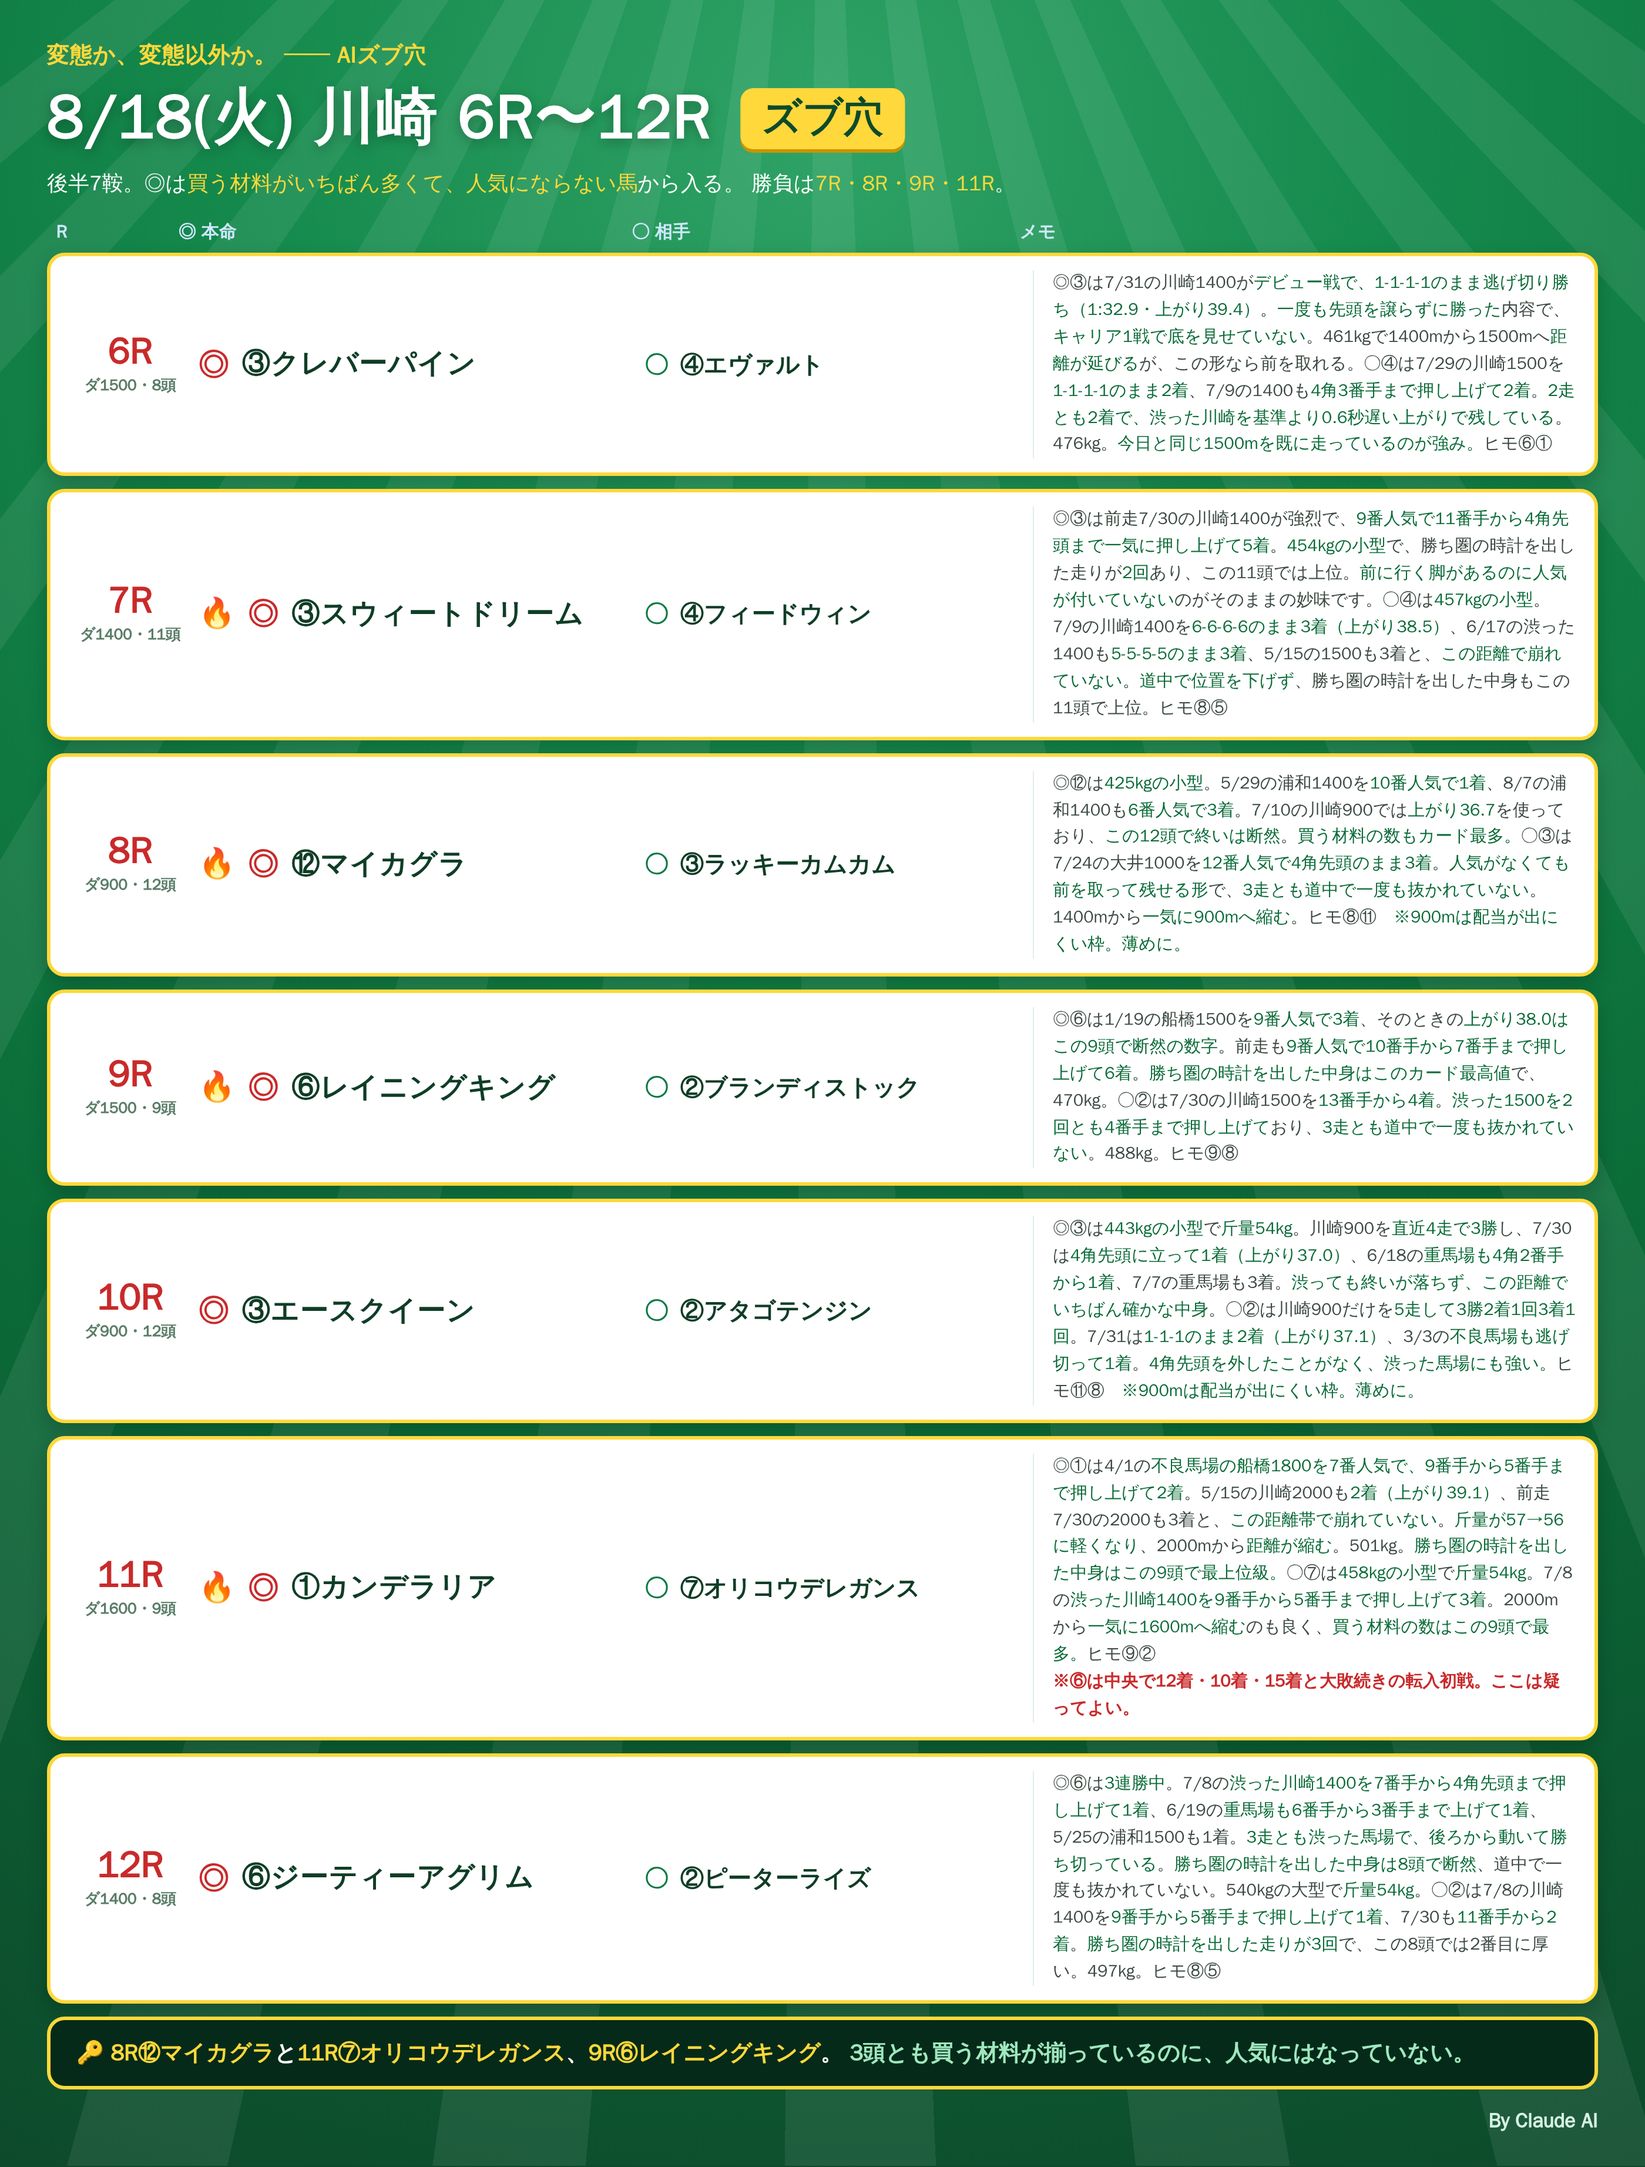
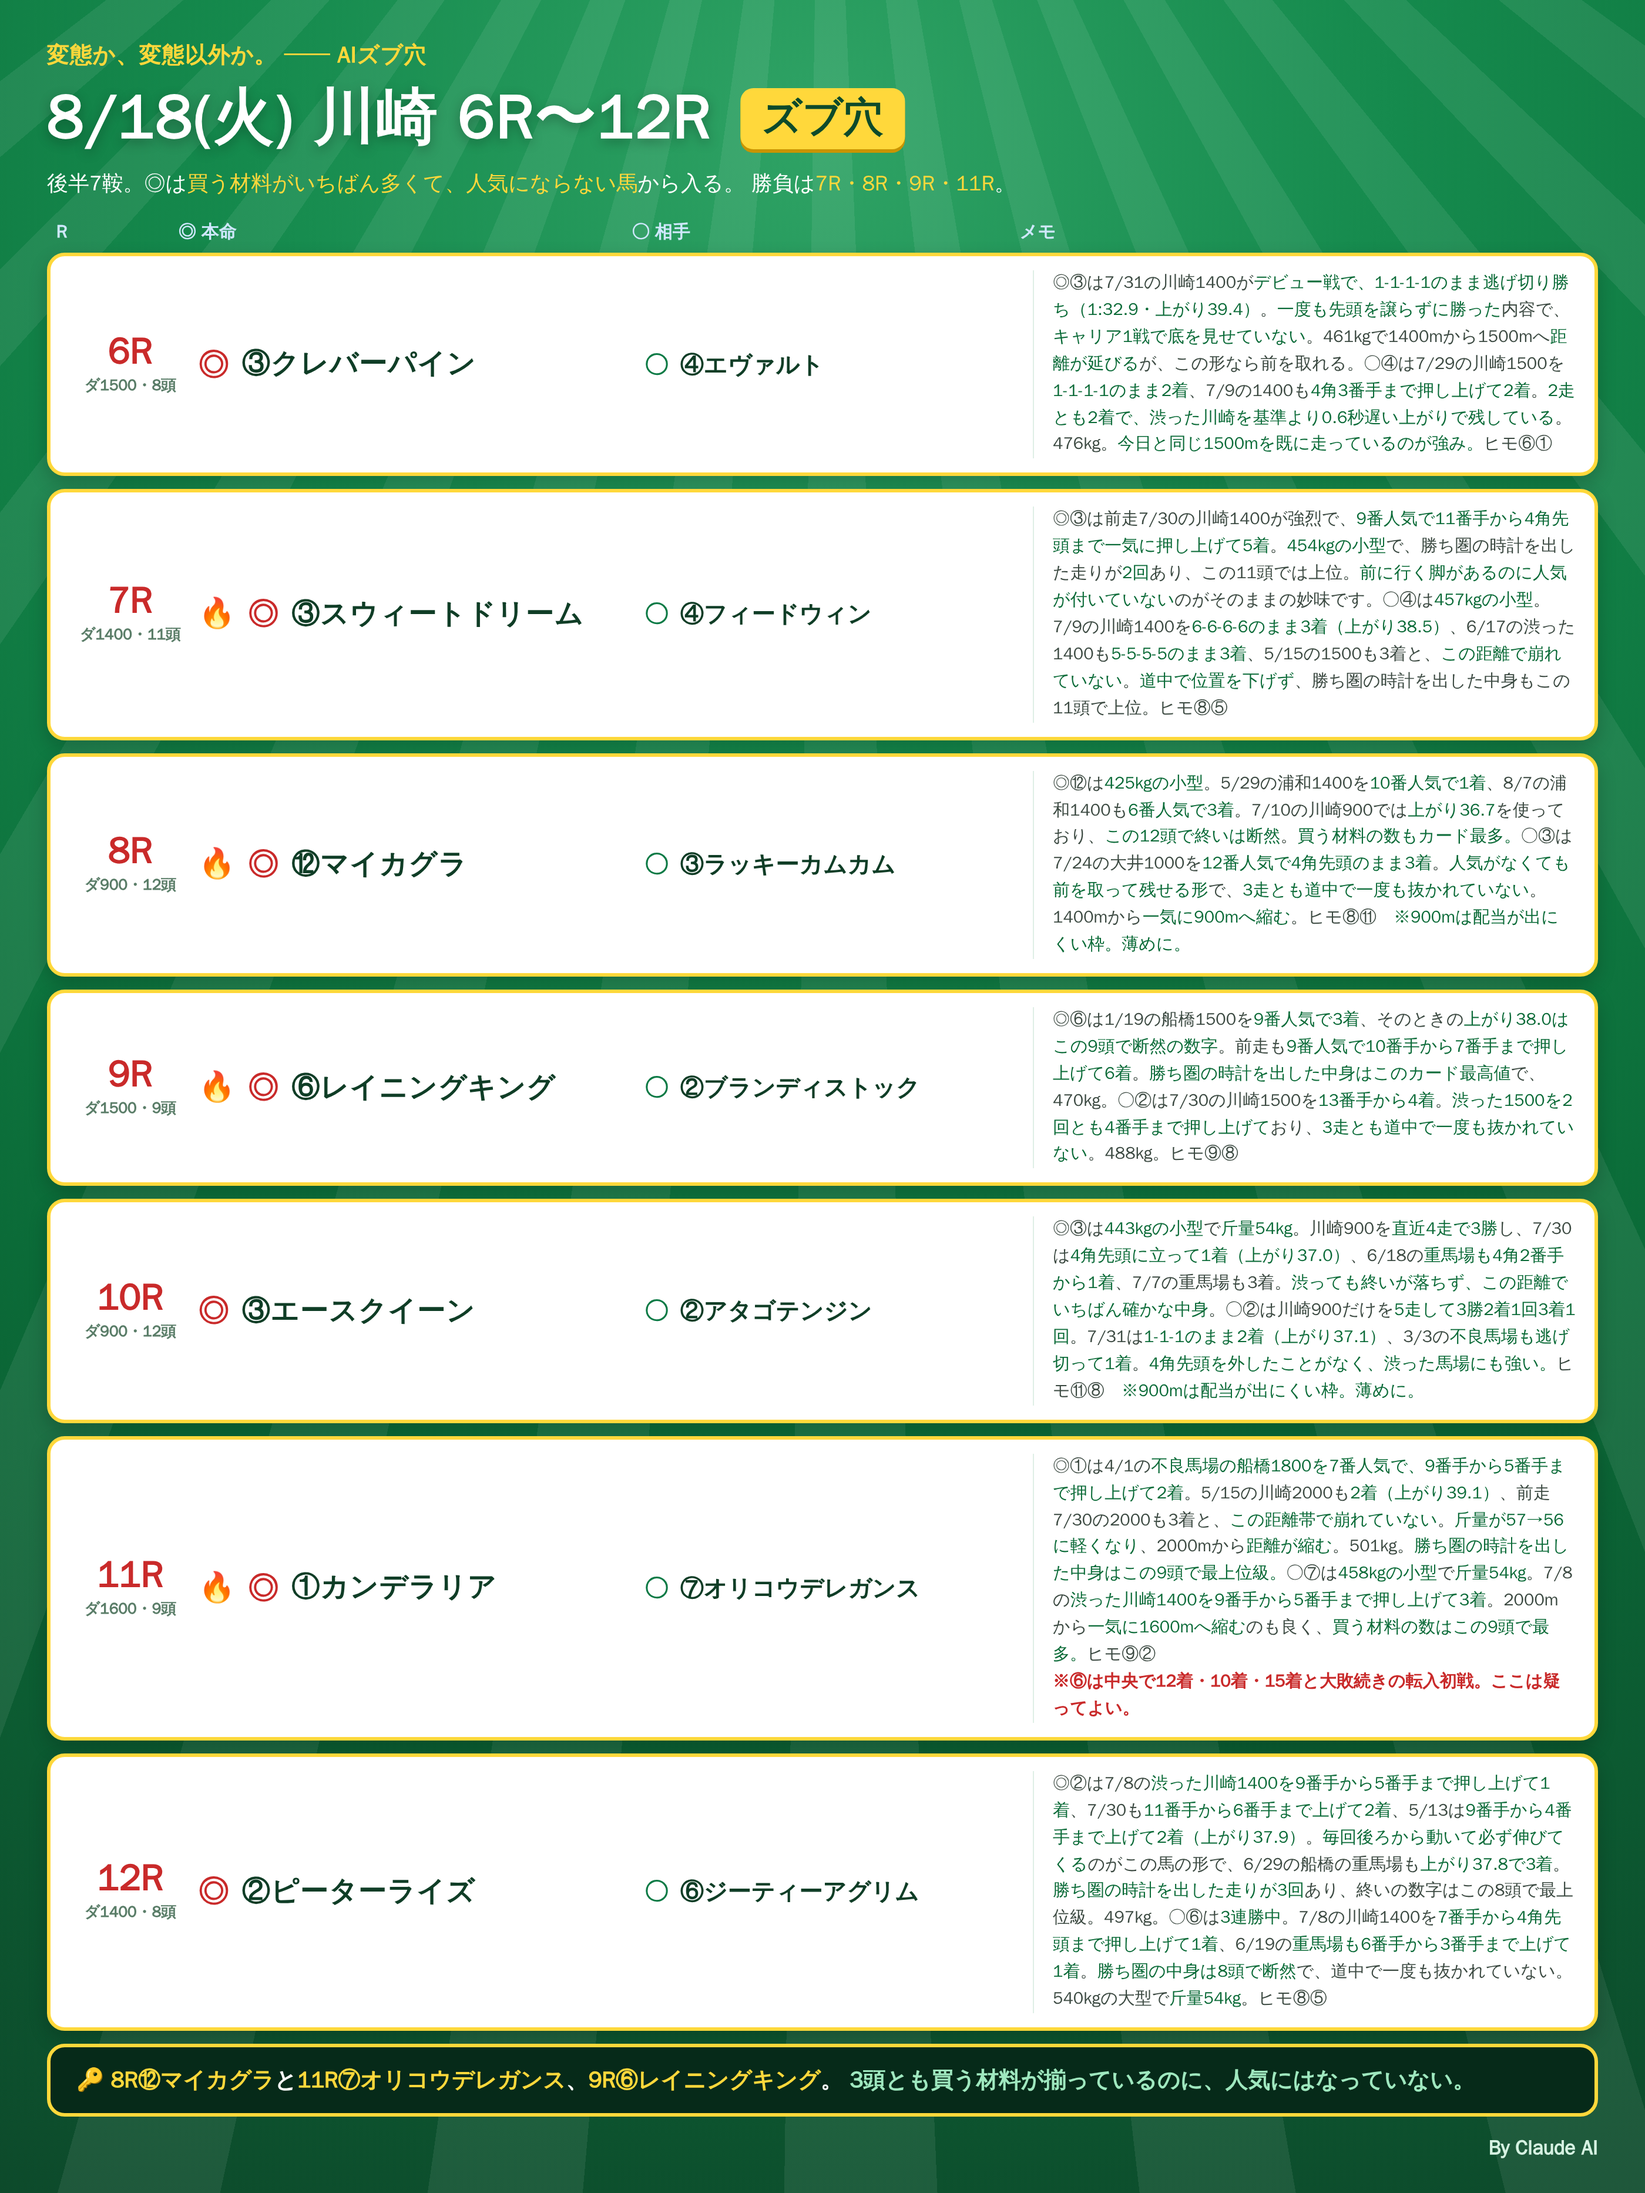
notes: 8/18 川崎 12R ◎○入れ替え（◎②ピーターライズ ○⑥ジーティーアグリム）
Claude-Session: https://claude.ai/code/session_01RoHscZkr96FNaxQWvUqgEw

diff --git a/notes/live/2026-08-18/kawasaki_triple_umatan.html b/notes/live/2026-08-18/kawasaki_triple_umatan.html
@@ -77,25 +77,25 @@
   </div>
 
   <div class="race r12">
-    <div class="rh"><span class="rn">12R</span><span class="rd">ダ1400 ・ 8頭　凌霄花特別 Ｂ３一二三</span><span class="rbadge">◎軸⑥ジーティーアグリム（3連勝中・下地10.4本物4で断然）</span></div>
+    <div class="rh"><span class="rn">12R</span><span class="rd">ダ1400 ・ 8頭　凌霄花特別 Ｂ３一二三</span><span class="rbadge">◎軸②ピーターライズ（下地9.6本物3・毎回後ろから伸びる）</span></div>
     <div class="line"><div class="tag"><span class="t1">1着 本命</span></div><div class="chips">
-      <div class="chip honmei"><span class="no">6</span><span class="nm">ジーティーアグリム</span><span class="meta"><b>3連勝中</b>・下地10.4本物4で8頭断然・540kg・斤54kg／7/8の渋った1400を7番手から4角先頭で1着・6/19の重も6番手から1着・道中で一度も抜かれず</span></div></div></div>
+      <div class="chip honmei"><span class="no">2</span><span class="nm">ピーターライズ</span><span class="meta">エッジ5・下地9.6本物3・497kg／7/8の渋った1400を9番手から5番手まで押し上げて1着・7/30も11番手から2着・5/13は9番手から2着(上がり37.9)</span></div></div></div>
     <div class="line"><div class="tag"><span class="t2">1着 保険</span></div><div class="chips">
-      <div class="chip hoken"><span class="no">2</span><span class="nm">ピーターライズ</span><span class="meta">エッジ5・下地9.6本物3＝8頭で2番目／7/8を9番手から1着・7/30も11番手から2着・497kg＝堅い側の保険</span></div></div></div>
+      <div class="chip hoken"><span class="no">6</span><span class="nm">ジーティーアグリム</span><span class="meta"><b>3連勝中</b>・下地10.4本物4で8頭断然・540kg・斤54kg・道中で一度も抜かれず＝堅い側の保険</span></div></div></div>
     <div class="line"><div class="tag"><span class="t3">2着 →</span></div><div class="chips">
       <div class="chip aite ana"><span class="no">5</span><span class="nm">リコーベレッタ</span><span class="meta">465kg・買う材料は8頭で最多タイ／7/30・7/9とも3-3-4-3で運び、4/9は4角2番手まで押し上げ。<b>3走とも6〜7番人気</b></span></div>
       <div class="chip aite ana"><span class="no">8</span><span class="nm">サラサチャレンジ</span><span class="meta">斤53kgで8頭最軽量／7/30を2-2-1-2で4角先頭・昨秋の佐賀1400は逃げて4着（上がり38.9）</span></div>
       <div class="chip aite ana"><span class="no">7</span><span class="nm">ナリノエンブレム</span><span class="meta">3走とも4角先頭で一度も抜かれず・上がりのブレ1.20が小さい</span></div>
       <div class="chip aite"><span class="no">3</span><span class="nm">トウマ</span><span class="meta">464kg・下地4.9・3走とも掲示板圏内</span></div></div></div>
-    <div class="rc">⑥は<b>3走とも渋った馬場を後ろから動いて勝ち切っている3連勝馬</b>で、下地も8頭で断然。<span class="o">保険は下地2番手の②</span>。2着筆頭は<b>毎回6〜7番人気なのに毎回前で運べている⑤</b>で、ここが配当源。</div>
+    <div class="rc">②は<b>毎回後ろから動いて必ず伸びてくる</b>形で、下地9.6本物3。<span class="o">保険は3連勝中で下地断然の⑥</span>。2着筆頭は<b>毎回6〜7番人気なのに毎回前で運べている⑤</b>で、ここが配当源。</div>
   </div>
 
   <div class="buys">
     <div class="buy hon"><div class="bt">▶ 本線（1着2頭 × 2着3頭）</div>
-      <div class="bl">10R <span class="a">③②</span>→<span class="s">⑪⑧⑥</span> ／ 11R <span class="a">①③</span>→<span class="s">⑦⑨⑧</span> ／ 12R <span class="a">⑥②</span>→<span class="s">⑤⑦⑧</span></div>
+      <div class="bl">10R <span class="a">③②</span>→<span class="s">⑪⑧⑥</span> ／ 11R <span class="a">①③</span>→<span class="s">⑦⑨⑧</span> ／ 12R <span class="a">②⑥</span>→<span class="s">⑤⑦⑧</span></div>
       <div class="bn">6×6×6＝<b>216点・10,800円</b>。1着を◎＋保険の2頭に割り、2着を3頭で受ける標準形（トリプル馬単は1点50円）。</div></div>
     <div class="buy hok"><div class="bt">▶ 絞り／総取り</div>
-      <div class="bl">絞り 1着を<span class="a">③・①・⑥</span>に固定 → 3×3×3＝<span class="a">27点・1,350円</span><br>総取り 8×8×8＝<span class="a">512点・25,600円</span>（2着を各4頭）</div>
+      <div class="bl">絞り 1着を<span class="a">③・①・②</span>に固定 → 3×3×3＝<span class="a">27点・1,350円</span><br>総取り 8×8×8＝<span class="a">512点・25,600円</span>（2着を各4頭）</div>
       <div class="bn">10Rは900mで<b>配当が出にくい枠</b>（前回開催は人気薄62頭で3着内4頭）。<b>10Rは1着を③②の堅い2頭で固め、2着に⑪⑧の人気薄を置いて配当を作る形</b>。11R・12Rは2着を4頭まで広げてよい。</div></div>
   </div>
 

diff --git a/notes/live/2026-08-18/kawasaki_6_12.html b/notes/live/2026-08-18/kawasaki_6_12.html
@@ -97,9 +97,9 @@
 
   <div class="row">
     <div class="rN"><div class="n">12R</div><div class="d">ダ1400・8頭</div></div>
-    <div class="hm"><span class="mk">◎</span><span class="nm">⑥ジーティーアグリム</span></div>
-    <div class="at"><span class="mk2">○</span><span class="nm2">②ピーターライズ</span></div>
-    <div class="memo">◎⑥は<b>3連勝中</b>。7/8の<b>渋った川崎1400を7番手から4角先頭まで押し上げて1着</b>、6/19の<b>重馬場も6番手から3番手まで上げて1着</b>、5/25の浦和1500も1着。<b>3走とも渋った馬場で、後ろから動いて勝ち切っている</b>。<b>勝ち圏の時計を出した中身は8頭で断然</b>、道中で一度も抜かれていない。540kgの大型で<b>斤量54kg</b>。○②は7/8の川崎1400を<b>9番手から5番手まで押し上げて1着</b>、7/30も<b>11番手から2着</b>。<b>勝ち圏の時計を出した走りが3回</b>で、この8頭では2番目に厚い。497kg。ヒモ⑧⑤</div>
+    <div class="hm"><span class="mk">◎</span><span class="nm">②ピーターライズ</span></div>
+    <div class="at"><span class="mk2">○</span><span class="nm2">⑥ジーティーアグリム</span></div>
+    <div class="memo">◎②は7/8の<b>渋った川崎1400を9番手から5番手まで押し上げて1着</b>、7/30も<b>11番手から6番手まで上げて2着</b>、5/13は<b>9番手から4番手まで上げて2着（上がり37.9）</b>。<b>毎回後ろから動いて必ず伸びてくる</b>のがこの馬の形で、6/29の船橋の重馬場も<b>上がり37.8で3着</b>。<b>勝ち圏の時計を出した走りが3回</b>あり、終いの数字はこの8頭で最上位級。497kg。○⑥は<b>3連勝中</b>。7/8の川崎1400を<b>7番手から4角先頭まで押し上げて1着</b>、6/19の<b>重馬場も6番手から3番手まで上げて1着</b>。<b>勝ち圏の中身は8頭で断然</b>で、道中で一度も抜かれていない。540kgの大型で<b>斤量54kg</b>。ヒモ⑧⑤</div>
   </div>
 
   <div class="foot">🔑 <span class="y">8R⑫マイカグラ</span>と<span class="y">11R⑦オリコウデレガンス</span>、<span class="y">9R⑥レイニングキング</span>。

diff --git a/notes/live/2026-08-18/README.md b/notes/live/2026-08-18/README.md
@@ -120,7 +120,7 @@
 | 12R ダ1400 | ⑤リコーベレッタ | ⑥ジーティーアグリム（3連勝中・399=10.4本物4で断然） | ②⑦⑧③ |
 
 - 本線 6×6×6＝**216点・10,800円**：10R ⑪③→⑧⑥⑤ ／ 11R ⑦③→①⑨⑧ ／ 12R ⑤⑥→②⑦⑧
-- 絞り：1着を **③・①・⑥** に固定 → 3×3×3＝**27点・1,350円**
+- 絞り：1着を **③・①・②** に固定 → 3×3×3＝**27点・1,350円**
 - ⚠ **10Rは⑪の中身が薄い。絞るなら1着を⑪⑧の2頭に組み替える。**
 
 ---
@@ -167,10 +167,10 @@
 |---|---|---|---|---|
 | 10R | **③エースクイーン** | ─ | ②アタゴテンジン（4角先頭を外したことがない） | ⑪⑧⑥⑤ |
 | 11R | **①カンデラリア** | ─ | ③スカイアクロス | ⑦⑨⑧④ |
-| 12R | **⑥ジーティーアグリム**（3連勝中） | ─ | ②ピーターライズ | ⑤⑦⑧③ |
+| 12R | **②ピーターライズ** | ─ | ⑥ジーティーアグリム（3連勝中） | ⑤⑦⑧③ |
 
 - 本線 6×6×6＝**216点・10,800円**：10R ⑪②→⑧⑥③ ／ 11R ⑦③→⑨①⑧ ／ 12R ⑤⑥→⑧②⑦
-- 絞り：1着を **③・①・⑥** に固定 → 3×3×3＝**27点・1,350円**
+- 絞り：1着を **③・①・②** に固定 → 3×3×3＝**27点・1,350円**
 - ⚠ 10Rは⑪(57.9倍)と⑧(53.8倍)がどちらも2桁人気。絞るなら1着を**⑪⑧**の2頭に組み替える。
 
 ## カラーテーマ
@@ -194,10 +194,10 @@
 | **9R ダ1500** | **⑥レイニングキング** | ②ブランディストック | ⑨⑧ |
 | 10R ダ900 | **③エースクイーン**（本人指定・443kgの小型・斤54kg・川崎900を直近4走で3勝・7/30は4角先頭で1着(上がり37.0)・6/18の重も1着） | **②アタゴテンジン**（本人指定・川崎900を5走して3勝・4角先頭を外したことがない・3/3の不良も逃げ切り） | ⑪⑧ |
 | **11R ダ1600** | **①カンデラリア**（本人指定・◎○入れ替え・下地9.2本物2・501kg・斤57→56・4/1の不良船橋1800を7番人気2着・2000→1600短縮） | ⑦オリコウデレガンス | ⑨② |
-| 12R ダ1400 | **⑥ジーティーアグリム**（本人指定・**3連勝中**・下地10.4本物4で8頭断然・540kg・斤54kg・3走とも渋った馬場を後ろから動いて勝ち切り・下げ0） | ②ピーターライズ | ⑧⑤ |
+| 12R ダ1400 | **②ピーターライズ**（本人指定・◎○入れ替え・下地9.6本物3・497kg・7/8を9番手から1着・7/30も11番手から2着・5/13は9番手から2着(上がり37.9)） | ⑥ジーティーアグリム（3連勝中・下地10.4本物4で断然） | ⑧⑤ |
 
 **トリプル馬単（確定）**
-- 本線 6×6×6＝216点・10,800円：10R ③②→⑪⑧⑥ ／ 11R ①③→⑦⑨⑧ ／ 12R ⑥②→⑤⑦⑧
-- 絞り：1着を ③・①・⑥ に固定 → 27点・1,350円
+- 本線 6×6×6＝216点・10,800円：10R ③②→⑪⑧⑥ ／ 11R ①③→⑦⑨⑧ ／ 12R ②⑥→⑤⑦⑧
+- 絞り：1着を ③・①・② に固定 → 27点・1,350円
 
 **◎の運用方針（確定）**：◎＝人気を被らない馬／○＝中身がいちばん確かな馬。**○が人気側になるのは許容する。**
